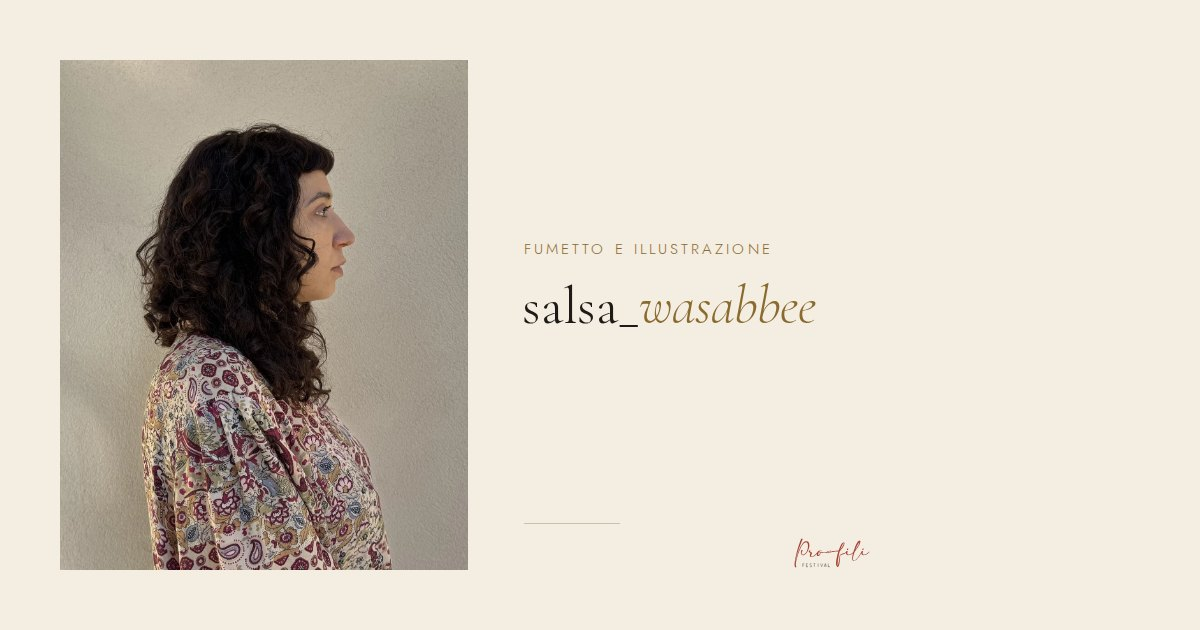
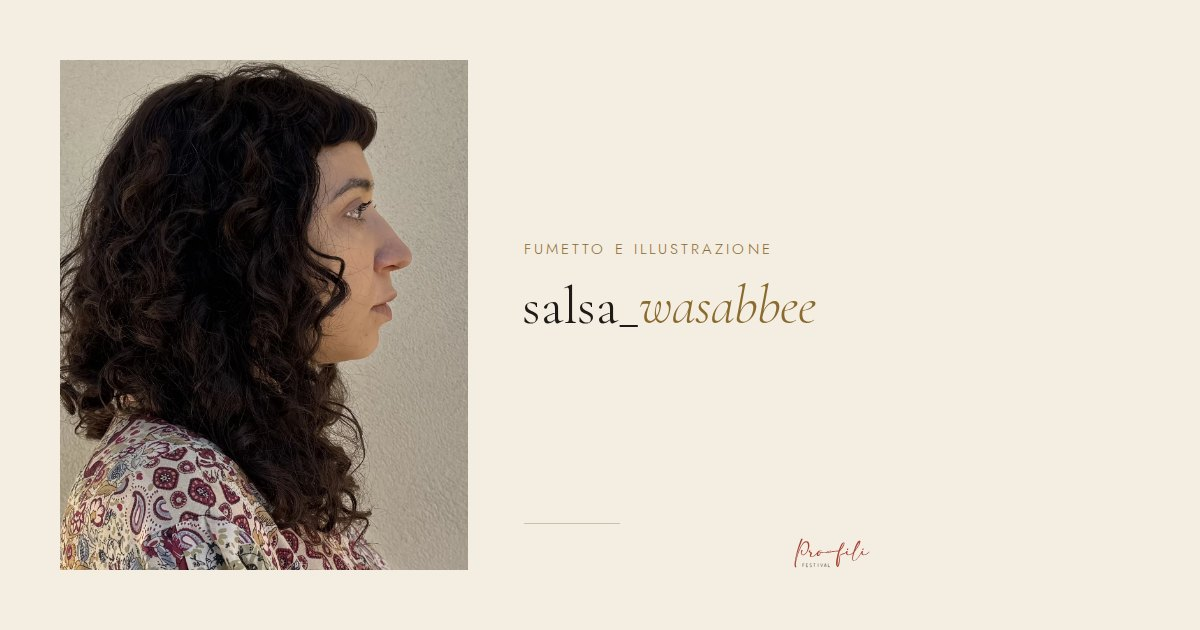
Lana senza giunture e anche nelle pagine interne; ritratto di salsa_wasabbee più stretto; ETHA a Rovigo (#13)
Claude-Session: https://claude.ai/code/session_01K8S9kDcMmADtdHMs7poTsz

Changed region(s): [[0.0308, 0.0905, 0.37, 0.9048]]

diff --git a/assets/js/cuciture.js b/assets/js/cuciture.js
@@ -4,7 +4,7 @@
    da sinistra a destra e la volta dopo da destra a sinistra: si srotola mentre la
    cucitura sale nello schermo. La prima parte da sinistra, dove esce il filo della matassa.
    Il filo e' disegnato su un canvas con la lana vera della foto (assets/img/matassa/lana.webp:
-   una striscia di filo dritto, lungo il filo in orizzontale, 2 righe per pixel di
+   una striscia di filo dritto che si ripete senza giunture, lungo il filo in orizzontale, 2 righe per pixel di
    traverso), stesa a fettine lungo un'onda diversa per ogni cucitura; il capo e' tondo.
    Con prefers-reduced-motion il filo e' gia' tutto. */
 (function () {
@@ -14,7 +14,6 @@
   var ridotto = window.matchMedia && matchMedia('(prefers-reduced-motion: reduce)').matches;
   var ALTO = 100;         // altezza del canvas (px CSS): il filo ondeggia qui dentro
   var PIENO = 19;         // righe della striscia occupate dal filo (sotto c'e' la sua ombra)
-  var GIUNTA = 24, MARGINE = 3;   // le tegole della striscia si sfumano l'una nell'altra
   var lana = new Image();
 
   // numeri casuali ripetibili: ogni cucitura ha sempre la sua onda
@@ -48,7 +47,7 @@
     var spesso = (w < 640 ? 10 : 13) * dpr;            // spessore del filo sullo schermo
     var kr = spesso / PIENO;                          // una riga della striscia, in px
     var passo = 1 / (2 * kr);                         // colonne della striscia per px di filo
-    var L = lana.naturalWidth, Hs = lana.naturalHeight, P = L - GIUNTA - 2 * MARGINE;
+    var L = lana.naturalWidth, Hs = lana.naturalHeight;   // la striscia si ripete senza giunture
     var lambda = s.onda * Math.max(w, 700) * dpr, A = s.ampiezza * dpr, mezzo = ALTO * dpr / 2;
     function y(x) { return mezzo + A * Math.sin(2 * Math.PI * x / lambda + s.fase) + s.pendenza * dpr * (x / (w * dpr) - 0.5); }
     s.y = y; s.raggio = spesso / 2 + dpr;
@@ -60,16 +59,10 @@
       nx = px + dx; ny = y(nx);
       var ang = Math.atan2(ny - py, nx - px), co = Math.cos(ang), si = Math.sin(ang);
       ctx.setTransform(co, si, -si, co, px, py);
-      var t = Math.floor(u / P), v = u - t * P + MARGINE;
-      if (t > 0 && v - MARGINE < GIUNTA) {
-        ctx.globalAlpha = 1;
-        ctx.drawImage(lana, Math.min(L - 1, v + P), 0, passo, Hs, -0.2, -Hs * kr / 2, 1.6, Hs * kr);
-        ctx.globalAlpha = (v - MARGINE) / GIUNTA;
-      } else ctx.globalAlpha = 1;
-      ctx.drawImage(lana, Math.min(L - 1, v), 0, passo, Hs, -0.2, -Hs * kr / 2, 1.6, Hs * kr);
+      var v = u % L;
+      ctx.drawImage(lana, Math.min(L - passo, v), 0, passo, Hs, -0.3, -Hs * kr / 2, 1.6, Hs * kr);
       u += passo; px = nx; py = ny; x = nx;
     }
-    ctx.globalAlpha = 1;
     ctx.setTransform(1, 0, 0, 1, 0, 0);
   }
 
@@ -125,5 +118,7 @@
     window.addEventListener('resize', chiedi);
     chiedi();
   };
-  lana.src = 'assets/img/matassa/lana.webp';
+  // la striscia sta accanto allo script: vale dalla home e dalle pagine interne
+  var qui = (document.currentScript && document.currentScript.src) || '';
+  lana.src = qui ? qui.replace(/js\/cuciture\.js.*$/, 'img/matassa/lana.webp') : 'assets/img/matassa/lana.webp';
 })();

diff --git a/artisti/salvatore-passalacqua.html b/artisti/salvatore-passalacqua.html
@@ -20,7 +20,7 @@
 <link rel="preload" as="font" type="font/woff2" href="../assets/fonts/jost-300-latin.woff2" crossorigin>
 <link rel="preload" as="font" type="font/woff2" href="../assets/fonts/cormorant-garamond-300-latin.woff2" crossorigin>
 <link rel="preload" as="font" type="font/woff2" href="../assets/fonts/cormorant-garamond-300-italic-latin.woff2" crossorigin>
-<link rel="stylesheet" href="../assets/css/site.css?v=20261002c">
+<link rel="stylesheet" href="../assets/css/site.css?v=20261003t">
 <!-- senza JavaScript il calendario e il menu non funzionano: meglio non mostrarli -->
 <noscript><style>[data-ics],.burger{display:none!important}</style></noscript>
 </head>
@@ -62,7 +62,7 @@
   <div class="wrap">
     <p class="eyebrow rv">Artisti di PRO-FILI · Musica e arti visive</p>
     <h1 class="rv">Salvatore <em>Passalacqua</em></h1>
-    <p class="sub rv">Musica e arti visive, da San Lucido (CS). In arte ETHA.</p>
+    <p class="sub rv">Musica e arti visive, a Rovigo. In arte ETHA.</p>
   </div>
 </header>
 
@@ -73,7 +73,7 @@
       <p class="muted" style="margin:-16px 0 24px;font-size:12px">Foto dell'artista</p>
       <dl>
         <dt>Disciplina</dt><dd>Musica, sound design e arti visive</dd>
-        <dt>Da</dt><dd>San Lucido (CS)</dd>
+        <dt>Da</dt><dd>Rovigo</dd>
         <dt>A PRO-FILI</dt><dd>In programma, Pescheria Nuova</dd>
       </dl>
     </aside>
@@ -106,6 +106,7 @@
 </section>
 
 <section class="block festival paper tono-2" data-world="paper">
+  <div class="cucitura" aria-hidden="true"></div>
   <div class="wrap">
     <div class="head rv"><div><p class="eyebrow">PRO-FILI Festival</p><h2>Gli altri <em>artisti</em></h2></div></div>
     <div class="people" data-altri-artisti>
@@ -158,6 +159,7 @@
   </div>
 </footer>
 
-<script src="../assets/js/site.js?v=20261002c" defer></script>
+<script src="../assets/js/site.js?v=20261003p" defer></script>
+<script src="../assets/js/cuciture.js?v=20261003c" defer></script>
 </body>
 </html>

diff --git a/stampa.html b/stampa.html
@@ -20,7 +20,7 @@
 <link rel="preload" as="font" type="font/woff2" href="assets/fonts/jost-300-latin.woff2" crossorigin>
 <link rel="preload" as="font" type="font/woff2" href="assets/fonts/cormorant-garamond-300-latin.woff2" crossorigin>
 <link rel="preload" as="font" type="font/woff2" href="assets/fonts/cormorant-garamond-300-italic-latin.woff2" crossorigin>
-<link rel="stylesheet" href="assets/css/site.css?v=20261002c">
+<link rel="stylesheet" href="assets/css/site.css?v=20261003t">
 <!-- senza JavaScript il calendario e il menu non funzionano: meglio non mostrarli -->
 <noscript><style>[data-ics],.burger{display:none!important}</style></noscript>
 </head>
@@ -108,6 +108,7 @@
 </section>
 
 <section class="block paper tono-2" id="materiali" data-world="paper">
+  <div class="cucitura" aria-hidden="true"></div>
   <div class="wrap">
     <div class="head rv">
       <div><p class="eyebrow">Per la stampa</p><h2>Materiali <em>scaricabili</em></h2></div>
@@ -128,6 +129,7 @@
 </section>
 
 <section class="block paper" data-world="paper">
+  <div class="cucitura" aria-hidden="true"></div>
   <div class="wrap article" style="grid-template-columns:1fr">
     <div>
       <div class="chapter rv">
@@ -145,6 +147,7 @@
 </section>
 
 <section class="block paper tono-2" data-world="paper">
+  <div class="cucitura" aria-hidden="true"></div>
   <div class="wrap">
     <div class="rv">
       <p class="eyebrow">Contatti</p>
@@ -181,6 +184,7 @@
   </div>
 </footer>
 
-<script src="assets/js/site.js?v=20261002c" defer></script>
+<script src="assets/js/site.js?v=20261003p" defer></script>
+<script src="assets/js/cuciture.js?v=20261003c" defer></script>
 </body>
 </html>

diff --git a/artisti/anna-randolo.html b/artisti/anna-randolo.html
@@ -20,7 +20,7 @@
 <link rel="preload" as="font" type="font/woff2" href="../assets/fonts/jost-300-latin.woff2" crossorigin>
 <link rel="preload" as="font" type="font/woff2" href="../assets/fonts/cormorant-garamond-300-latin.woff2" crossorigin>
 <link rel="preload" as="font" type="font/woff2" href="../assets/fonts/cormorant-garamond-300-italic-latin.woff2" crossorigin>
-<link rel="stylesheet" href="../assets/css/site.css?v=20261002c">
+<link rel="stylesheet" href="../assets/css/site.css?v=20261003t">
 <!-- senza JavaScript il calendario e il menu non funzionano: meglio non mostrarli -->
 <noscript><style>[data-ics],.burger{display:none!important}</style></noscript>
 </head>
@@ -106,6 +106,7 @@
 </section>
 
 <section class="block festival paper tono-2" data-world="paper">
+  <div class="cucitura" aria-hidden="true"></div>
   <div class="wrap">
     <div class="head rv"><div><p class="eyebrow">PRO-FILI Festival</p><h2>Gli altri <em>artisti</em></h2></div></div>
     <div class="people" data-altri-artisti>
@@ -158,6 +159,7 @@
   </div>
 </footer>
 
-<script src="../assets/js/site.js?v=20261002c" defer></script>
+<script src="../assets/js/site.js?v=20261003p" defer></script>
+<script src="../assets/js/cuciture.js?v=20261003c" defer></script>
 </body>
 </html>

diff --git a/artisti/anna-spazio-marangon.html b/artisti/anna-spazio-marangon.html
@@ -20,7 +20,7 @@
 <link rel="preload" as="font" type="font/woff2" href="../assets/fonts/jost-300-latin.woff2" crossorigin>
 <link rel="preload" as="font" type="font/woff2" href="../assets/fonts/cormorant-garamond-300-latin.woff2" crossorigin>
 <link rel="preload" as="font" type="font/woff2" href="../assets/fonts/cormorant-garamond-300-italic-latin.woff2" crossorigin>
-<link rel="stylesheet" href="../assets/css/site.css?v=20261002c">
+<link rel="stylesheet" href="../assets/css/site.css?v=20261003t">
 <!-- senza JavaScript il calendario e il menu non funzionano: meglio non mostrarli -->
 <noscript><style>[data-ics],.burger{display:none!important}</style></noscript>
 </head>
@@ -106,6 +106,7 @@
 </section>
 
 <section class="block festival paper tono-2" data-world="paper">
+  <div class="cucitura" aria-hidden="true"></div>
   <div class="wrap">
     <div class="head rv"><div><p class="eyebrow">PRO-FILI Festival</p><h2>Gli altri <em>artisti</em></h2></div></div>
     <div class="people" data-altri-artisti>
@@ -158,6 +159,7 @@
   </div>
 </footer>
 
-<script src="../assets/js/site.js?v=20261002c" defer></script>
+<script src="../assets/js/site.js?v=20261003p" defer></script>
+<script src="../assets/js/cuciture.js?v=20261003c" defer></script>
 </body>
 </html>

diff --git a/artisti/caino.html b/artisti/caino.html
@@ -20,7 +20,7 @@
 <link rel="preload" as="font" type="font/woff2" href="../assets/fonts/jost-300-latin.woff2" crossorigin>
 <link rel="preload" as="font" type="font/woff2" href="../assets/fonts/cormorant-garamond-300-latin.woff2" crossorigin>
 <link rel="preload" as="font" type="font/woff2" href="../assets/fonts/cormorant-garamond-300-italic-latin.woff2" crossorigin>
-<link rel="stylesheet" href="../assets/css/site.css?v=20261002c">
+<link rel="stylesheet" href="../assets/css/site.css?v=20261003t">
 <!-- senza JavaScript il calendario e il menu non funzionano: meglio non mostrarli -->
 <noscript><style>[data-ics],.burger{display:none!important}</style></noscript>
 </head>
@@ -106,6 +106,7 @@
 </section>
 
 <section class="block festival paper tono-2" data-world="paper">
+  <div class="cucitura" aria-hidden="true"></div>
   <div class="wrap">
     <div class="head rv"><div><p class="eyebrow">PRO-FILI Festival</p><h2>Gli altri <em>artisti</em></h2></div></div>
     <div class="people" data-altri-artisti>
@@ -158,6 +159,7 @@
   </div>
 </footer>
 
-<script src="../assets/js/site.js?v=20261002c" defer></script>
+<script src="../assets/js/site.js?v=20261003p" defer></script>
+<script src="../assets/js/cuciture.js?v=20261003c" defer></script>
 </body>
 </html>

diff --git a/artisti/chiara-tosti.html b/artisti/chiara-tosti.html
@@ -20,7 +20,7 @@
 <link rel="preload" as="font" type="font/woff2" href="../assets/fonts/jost-300-latin.woff2" crossorigin>
 <link rel="preload" as="font" type="font/woff2" href="../assets/fonts/cormorant-garamond-300-latin.woff2" crossorigin>
 <link rel="preload" as="font" type="font/woff2" href="../assets/fonts/cormorant-garamond-300-italic-latin.woff2" crossorigin>
-<link rel="stylesheet" href="../assets/css/site.css?v=20261002c">
+<link rel="stylesheet" href="../assets/css/site.css?v=20261003t">
 <!-- senza JavaScript il calendario e il menu non funzionano: meglio non mostrarli -->
 <noscript><style>[data-ics],.burger{display:none!important}</style></noscript>
 </head>
@@ -121,6 +121,7 @@
 </section>
 
 <section class="block festival paper tono-2" data-world="paper">
+  <div class="cucitura" aria-hidden="true"></div>
   <div class="wrap">
     <div class="head rv"><div><p class="eyebrow">PRO-FILI Festival</p><h2>Gli altri <em>artisti</em></h2></div></div>
     <div class="people" data-altri-artisti>
@@ -173,6 +174,7 @@
   </div>
 </footer>
 
-<script src="../assets/js/site.js?v=20261002c" defer></script>
+<script src="../assets/js/site.js?v=20261003p" defer></script>
+<script src="../assets/js/cuciture.js?v=20261003c" defer></script>
 </body>
 </html>

diff --git a/artisti/daniele-corrain.html b/artisti/daniele-corrain.html
@@ -20,7 +20,7 @@
 <link rel="preload" as="font" type="font/woff2" href="../assets/fonts/jost-300-latin.woff2" crossorigin>
 <link rel="preload" as="font" type="font/woff2" href="../assets/fonts/cormorant-garamond-300-latin.woff2" crossorigin>
 <link rel="preload" as="font" type="font/woff2" href="../assets/fonts/cormorant-garamond-300-italic-latin.woff2" crossorigin>
-<link rel="stylesheet" href="../assets/css/site.css?v=20261002c">
+<link rel="stylesheet" href="../assets/css/site.css?v=20261003t">
 <!-- senza JavaScript il calendario e il menu non funzionano: meglio non mostrarli -->
 <noscript><style>[data-ics],.burger{display:none!important}</style></noscript>
 </head>
@@ -104,6 +104,7 @@
 </section>
 
 <section class="block festival paper tono-2" data-world="paper">
+  <div class="cucitura" aria-hidden="true"></div>
   <div class="wrap">
     <div class="head rv"><div><p class="eyebrow">PRO-FILI Festival</p><h2>Gli altri <em>artisti</em></h2></div></div>
     <div class="people" data-altri-artisti>
@@ -156,6 +157,7 @@
   </div>
 </footer>
 
-<script src="../assets/js/site.js?v=20261002c" defer></script>
+<script src="../assets/js/site.js?v=20261003p" defer></script>
+<script src="../assets/js/cuciture.js?v=20261003c" defer></script>
 </body>
 </html>

diff --git a/artisti/enrico-buoso.html b/artisti/enrico-buoso.html
@@ -20,7 +20,7 @@
 <link rel="preload" as="font" type="font/woff2" href="../assets/fonts/jost-300-latin.woff2" crossorigin>
 <link rel="preload" as="font" type="font/woff2" href="../assets/fonts/cormorant-garamond-300-latin.woff2" crossorigin>
 <link rel="preload" as="font" type="font/woff2" href="../assets/fonts/cormorant-garamond-300-italic-latin.woff2" crossorigin>
-<link rel="stylesheet" href="../assets/css/site.css?v=20261002c">
+<link rel="stylesheet" href="../assets/css/site.css?v=20261003t">
 <!-- senza JavaScript il calendario e il menu non funzionano: meglio non mostrarli -->
 <noscript><style>[data-ics],.burger{display:none!important}</style></noscript>
 </head>
@@ -104,6 +104,7 @@
 </section>
 
 <section class="block festival paper tono-2" data-world="paper">
+  <div class="cucitura" aria-hidden="true"></div>
   <div class="wrap">
     <div class="head rv"><div><p class="eyebrow">PRO-FILI Festival</p><h2>Gli altri <em>artisti</em></h2></div></div>
     <div class="people" data-altri-artisti>
@@ -156,6 +157,7 @@
   </div>
 </footer>
 
-<script src="../assets/js/site.js?v=20261002c" defer></script>
+<script src="../assets/js/site.js?v=20261003p" defer></script>
+<script src="../assets/js/cuciture.js?v=20261003c" defer></script>
 </body>
 </html>

diff --git a/artisti/filo.html b/artisti/filo.html
@@ -20,7 +20,7 @@
 <link rel="preload" as="font" type="font/woff2" href="../assets/fonts/jost-300-latin.woff2" crossorigin>
 <link rel="preload" as="font" type="font/woff2" href="../assets/fonts/cormorant-garamond-300-latin.woff2" crossorigin>
 <link rel="preload" as="font" type="font/woff2" href="../assets/fonts/cormorant-garamond-300-italic-latin.woff2" crossorigin>
-<link rel="stylesheet" href="../assets/css/site.css?v=20261002c">
+<link rel="stylesheet" href="../assets/css/site.css?v=20261003t">
 <!-- senza JavaScript il calendario e il menu non funzionano: meglio non mostrarli -->
 <noscript><style>[data-ics],.burger{display:none!important}</style></noscript>
 </head>
@@ -104,6 +104,7 @@
 </section>
 
 <section class="block festival paper tono-2" data-world="paper">
+  <div class="cucitura" aria-hidden="true"></div>
   <div class="wrap">
     <div class="head rv"><div><p class="eyebrow">PRO-FILI Festival</p><h2>Gli altri <em>artisti</em></h2></div></div>
     <div class="people" data-altri-artisti>
@@ -156,6 +157,7 @@
   </div>
 </footer>
 
-<script src="../assets/js/site.js?v=20261002c" defer></script>
+<script src="../assets/js/site.js?v=20261003p" defer></script>
+<script src="../assets/js/cuciture.js?v=20261003c" defer></script>
 </body>
 </html>

diff --git a/artisti/francesca-de-simone.html b/artisti/francesca-de-simone.html
@@ -20,7 +20,7 @@
 <link rel="preload" as="font" type="font/woff2" href="../assets/fonts/jost-300-latin.woff2" crossorigin>
 <link rel="preload" as="font" type="font/woff2" href="../assets/fonts/cormorant-garamond-300-latin.woff2" crossorigin>
 <link rel="preload" as="font" type="font/woff2" href="../assets/fonts/cormorant-garamond-300-italic-latin.woff2" crossorigin>
-<link rel="stylesheet" href="../assets/css/site.css?v=20261002c">
+<link rel="stylesheet" href="../assets/css/site.css?v=20261003t">
 <!-- senza JavaScript il calendario e il menu non funzionano: meglio non mostrarli -->
 <noscript><style>[data-ics],.burger{display:none!important}</style></noscript>
 </head>
@@ -105,6 +105,7 @@
 </section>
 
 <section class="block festival paper tono-2" data-world="paper">
+  <div class="cucitura" aria-hidden="true"></div>
   <div class="wrap">
     <div class="head rv"><div><p class="eyebrow">PRO-FILI Festival</p><h2>Gli altri <em>artisti</em></h2></div></div>
     <div class="people" data-altri-artisti>
@@ -157,6 +158,7 @@
   </div>
 </footer>
 
-<script src="../assets/js/site.js?v=20261002c" defer></script>
+<script src="../assets/js/site.js?v=20261003p" defer></script>
+<script src="../assets/js/cuciture.js?v=20261003c" defer></script>
 </body>
 </html>

diff --git a/artisti/giorgia-roversi.html b/artisti/giorgia-roversi.html
@@ -20,7 +20,7 @@
 <link rel="preload" as="font" type="font/woff2" href="../assets/fonts/jost-300-latin.woff2" crossorigin>
 <link rel="preload" as="font" type="font/woff2" href="../assets/fonts/cormorant-garamond-300-latin.woff2" crossorigin>
 <link rel="preload" as="font" type="font/woff2" href="../assets/fonts/cormorant-garamond-300-italic-latin.woff2" crossorigin>
-<link rel="stylesheet" href="../assets/css/site.css?v=20261002c">
+<link rel="stylesheet" href="../assets/css/site.css?v=20261003t">
 <!-- senza JavaScript il calendario e il menu non funzionano: meglio non mostrarli -->
 <noscript><style>[data-ics],.burger{display:none!important}</style></noscript>
 </head>
@@ -106,6 +106,7 @@
 </section>
 
 <section class="block festival paper tono-2" data-world="paper">
+  <div class="cucitura" aria-hidden="true"></div>
   <div class="wrap">
     <div class="head rv"><div><p class="eyebrow">PRO-FILI Festival</p><h2>Gli altri <em>artisti</em></h2></div></div>
     <div class="people" data-altri-artisti>
@@ -158,6 +159,7 @@
   </div>
 </footer>
 
-<script src="../assets/js/site.js?v=20261002c" defer></script>
+<script src="../assets/js/site.js?v=20261003p" defer></script>
+<script src="../assets/js/cuciture.js?v=20261003c" defer></script>
 </body>
 </html>
